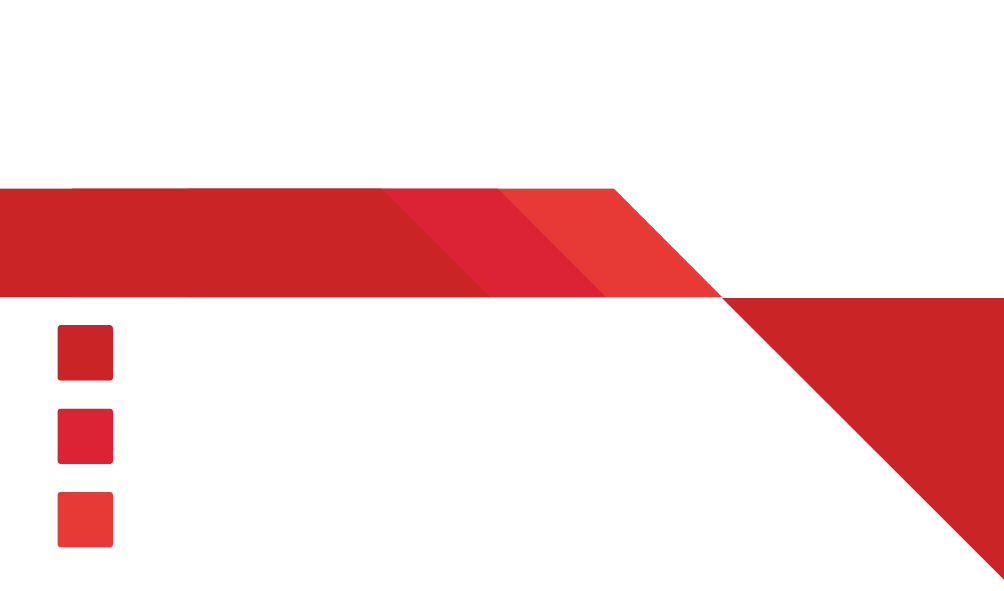
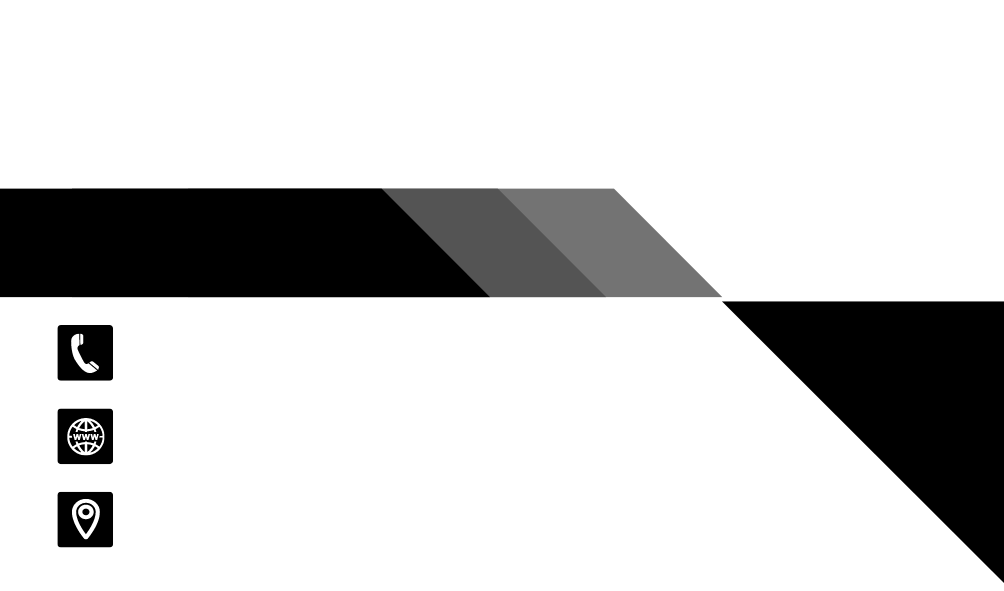
Add components

Changed region(s): [[0.0, 0.3046, 1.0, 1.0], [0.0309, 0.5482, 0.1235, 0.7919], [0.0309, 0.8223, 0.1235, 0.9442]]

diff --git a/src/index.js b/src/index.js
@@ -1,83 +1,182 @@
+/////////////////////////////////////////////////////////////////////////
+//                      NAME CARD COMPONENTS                           //
+/////////////////////////////////////////////////////////////////////////
+
 //--------------MODULES-----------------//
-import React from "react"; //
-import ReactDOM from "react-dom/client"; //
+import React, { useState } from 'react'; // Import React and useState together
+import ReactDOM from 'react-dom/client';
+import SliderComponent from './sliderComponent'; // Ensure the path is correct
 //--------------------------------------//
 
 function Namecard(props) {
+  ///////////////////////////////////////////////////////////////
+  //                     INLINE CSS STYLES                     //
+  ///////////////////////////////////////////////////////////////
+  //OUTER CONTAINER
+  const OuterContainer = {
+    display: "flex",
+    flexDirection: "row", // Stack vertically
+  };
+
   const defaultNamecardStyle = {
     //DISPLAY
+    marginTop: "2em",
     //BORDERS
     border: "1px solid black",
-    borderRadius: "10px",
+    borderRadius: "0.725em",
     //SIZING
-    width: "400px",
-    height: "200px",
+    width: "25em",
+    height: "12.5em",
     //TEXT
     textAlign: "center",
-    fontFamily: "Arial",
+    position: "relative",
   };
 
   //Name of the person
   const CardName = {
+    //TEXT
+    fontFamily: fontName,
     textAlign: "left",
-    marginLeft: "20px",
-    marginTop: "10px",
     fontFamily: "Arial",
     fontSize: "120%",
-    color: "red",
     fontWeight: "600",
+    color: "black",
+
+    //SIZING AND POSITIONING
+    //MARGINS
+    marginLeft: "1.25em",
+    marginTop: "0.625em",
     marginBottom: "0",
-    overFlow: "hidden",
+    overflow: "none",
   };
 
   //bg image of card
   const BackgroundImage = {
+    //POSITIONNG
     zIndex: "-2",
     position: "absolute",
-    left: "9px",
-    width: "400px",
-    height: "200px",
-  }
+    left: "0",
+    //SIZING
+    width: "25em",
+    height: "12.5em",
+    filter: "grayscale()",
+  };
 
   //logo of the company
+  const [logoY, setLogoY] = useState("1.25");
+
   const CompanyLogo = {
     zIndex: "-1",
     position: "absolute",
-    left: "325px",
-    top: "20px",
-    width: "5%",
-  }
+    left: "20.3125em",
+    top: logoY,
+    width: logoSize,
+  };
 
   //title of the user
-  const Title =  {
+  const Title = {
     textAlign: "left",
-    marginLeft: "20px",
-    fontFamily: "Arial",
-    fontSize: "60%",
+    marginLeft: titleLeftMargin,
+    fontFamily: fontTitle,
+    fontSize: titleSize,
     color: "gray",
-    marginLeft: "20px",
-    marginTop: "3px",
-  }
+    marginTop: "0.1875em",
+  };
+
+  //CONTACT DETAILS
+
+  const Number = {
+    textAlign: "left",
+    marginTop: "3.8em",
+    marginLeft: contactLeftMargin,
+    marginBottom: contactMarginBottom,
+    fontFamily: contactFont,
+  };
+
+  const Website = {
+    textAlign: "left",
+    marginTop: "0.7em",
+    marginLeft: contactLeftMargin,
+    marginBottom: contactMarginBottom,
+    fontFamily: contactFont,
+  };
+
+  const location = {
+    textAlign: "left",
+    marginTop: "0.6em",
+    marginLeft: contactLeftMargin,
+    marginBottom: contactMarginBottom,
+    fontFamily: contactFont,
+  };
+  //---------------------INLINE CSS STYLES---------------------//
 
   return (
-    <div style={defaultNamecardStyle}>
-      <img style={BackgroundImage}src="/nameCards/default.png" alt="Default Namecard" />
-      <img style={CompanyLogo} src="/logos/logo512.png" alt="company logo"></img>
+    <div style={OuterContainer}>
+      <div style={defaultNamecardStyle}>
+        <img
+          style={BackgroundImage}
+          src="/nameCards/default.png"
+          alt="Default Namecard"
+        />
+        <img style={CompanyLogo} src={props.LogoURL} alt="company logo"></img>
 
-      <p style={CardName}>{props.name}</p>
-      <p style={Title}>{props.title}</p>
+        <p style={CardName}>{props.name}</p>
+        <p style={Title}>{props.title}</p>
+        <div>
+          <p style={Number}>82872532</p>
+          <p style={Website}>www.facebook.com</p>
+          <p style={location}>128 Bedok North</p>
+        </div>
+      </div>
+      <div>
+      <SliderComponent initialValue={logoY} onValueChange={setLogoY}/>
+      </div>
     </div>
   );
 }
-
-//----------CARD INFORMATION
+//----------CARD INFORMATION DEFAULT VALUES
 //Enter information here
-var userName = "Chen Yanguang"
-var title = "ReactJs Engineer"
 
-//---------------------------
+//Name ontop of card
+var userName = "Chen Yanguang";
+//Title of card name
+var title = "ReactJs Engineer";
+//Path of the lgo
+var logoPath = "/logos/logo512.png";
 
-const defaultNameCard = <Namecard name={userName} title={title} />;
-//--------RENDER THE COMPONENT--------//
+//----------CUSTOMIZABLE DIMENSIONS
+//COMPANY LOGO//
+var logoSize = "10%"; //DEFAULT 10%
+//NAME//
+var fontName = "Arial"; //DEFAULT ARIAL
+var fontTitle = "monospace"; //DEFAULT MONOSPACE
+//TITLE//
+var titleSize = "90%"; //DEFUALT 80%
+var titleLeftMargin = "2.1em"; //DEFAULT 2.1em
+
+//CONTACT
+var contactFont = "Arial"; //DEFAULT ARIAL
+var contactLeftMargin = "3.8em"; //DEFAULT 3.8em
+var contactMarginBottom = "0em"; //DEFAULT 0em
+//---------------EDIT PROPERTIES HERE----------------------------//
+const defaultNameCard = (
+  <Namecard name={userName} title={title} LogoURL={logoPath} />
+);
+const user1 = (
+  <Namecard name="Bob" title="professional son" LogoURL={logoPath} />
+);
+const user2 = (
+  <Namecard name="Alexa" title="Voice Assistant" LogoURL={logoPath} />
+);
+//--------------------------------------------------------------//
+//////////////////////////////////////////////////////////////////
+//                    R E N D E R                               //
+//////////////////////////////////////////////////////////////////
 const root = ReactDOM.createRoot(document.getElementById("root"));
-root.render(<>{defaultNameCard}</>);
+root.render(
+  <>
+    {defaultNameCard}
+    {user1}
+    {user2}
+  </>
+);

diff --git a/src/sliderComponent.js b/src/sliderComponent.js
@@ -1,0 +1,52 @@
+import React, { useState } from 'react';
+import ReactDOM from 'react-dom/client';
+
+// Slider component
+function SliderComponent(props) {
+  // Initialize the sliderValue state with the value from props if provided
+  const [sliderValue, setSliderValue] = useState(props.initialValue);
+
+  // Handler function to update state and propagate the change upwards via props
+  const handleSliderChange = (event) => {
+    // Convert the slider value (a string) to a value with em units
+    const newValueInEm = `${event.target.value}em`;
+    setSliderValue(newValueInEm);
+    
+    // If there is a function provided via props to handle the change, call it
+    if (props.onValueChange) {
+      props.onValueChange(newValueInEm);
+    }
+  };
+
+  return (
+    <input
+      type="range"
+      min="1" // You might want to adjust the min and max values to suit your needs
+      max="100"
+      value={parseInt(sliderValue, 10)} // Remove 'em' to work with the slider which expects a number
+      onChange={handleSliderChange}
+    />
+  );
+}
+
+function App() {
+  // State for the logo's Y position in 'em'
+  const [logoY, setLogoY] = useState("1.25");
+
+  return (
+    <div>
+      <SliderComponent
+        initialValue={logoY}
+        onValueChange={setLogoY} // Set the value of logoY when the slider changes
+      />
+      {/* Other components that use logoY */}
+      <div style={{ top: `${logoY}em` }}> {/* Inline style using logoY */}</div>
+    </div>
+  );
+}
+
+
+export default SliderComponent;
+
+const root = ReactDOM.createRoot(document.getElementById('root'));
+root.render(<App />);

diff --git a/public/index.html b/public/index.html
@@ -10,34 +10,12 @@
       content="Web site created using create-react-app"
     />
     <link rel="apple-touch-icon" href="%PUBLIC_URL%/logo192.png" />
-    <!--
-      manifest.json provides metadata used when your web app is installed on a
-      user's mobile device or desktop. See https://developers.google.com/web/fundamentals/web-app-manifest/
-    -->
     <link rel="manifest" href="%PUBLIC_URL%/manifest.json" />
-    <!--
-      Notice the use of %PUBLIC_URL% in the tags above.
-      It will be replaced with the URL of the `public` folder during the build.
-      Only files inside the `public` folder can be referenced from the HTML.
-
-      Unlike "/favicon.ico" or "favicon.ico", "%PUBLIC_URL%/favicon.ico" will
-      work correctly both with client-side routing and a non-root public URL.
-      Learn how to configure a non-root public URL by running `npm run build`.
-    -->
     <title>React App</title>
   </head>
   <body>
+    <h1>These are React resuable Components</h1>
     <noscript>You need to enable JavaScript to run this app.</noscript>
     <div id="root"></div>
-    <!--
-      This HTML file is a template.
-      If you open it directly in the browser, you will see an empty page.
-
-      You can add webfonts, meta tags, or analytics to this file.
-      The build step will place the bundled scripts into the <body> tag.
-
-      To begin the development, run `npm start` or `yarn start`.
-      To create a production bundle, use `npm run build` or `yarn build`.
-    -->
   </body>
 </html>
